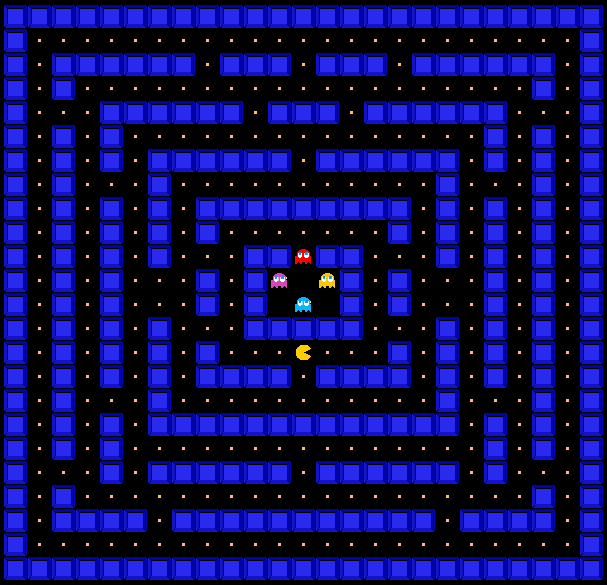
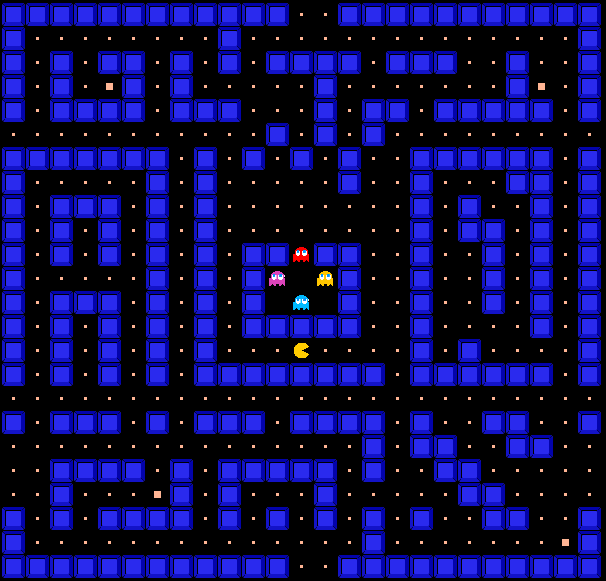
Change map order

diff --git a/src/level.py b/src/level.py
@@ -38,30 +38,84 @@ class Level:
             ],
             [
                 [1,1,1,1,1,1,1,1,1,1,1,1,1,1,1,1,1,1,1,1,1,1,1,1,1,0],
-                [1,1,1,1,1,1,1,1,1,1,1,1,1,1,1,1,1,1,1,1,1,1,1,1,1,0],
-                [1,1,1,1,1,1,1,1,1,1,1,1,1,1,1,1,1,1,1,1,1,1,1,1,1,0],
-                [1,1,1,1,1,1,1,1,1,1,1,1,1,1,1,1,1,1,1,1,1,1,1,1,1,0],
-                [1,1,1,1,1,1,1,1,1,1,1,1,1,1,1,1,1,1,1,1,1,1,1,1,1,0],
-                [1,1,1,1,1,1,1,1,1,1,1,1,1,1,1,1,1,1,1,1,1,1,1,1,1,0],
-                [1,1,1,1,1,1,1,1,1,1,1,1,1,1,1,1,1,1,1,1,1,1,1,1,1,0],
-                [1,1,1,1,1,1,1,1,1,1,1,1,1,1,1,1,1,1,1,1,1,1,1,1,1,0],
-                [1,1,1,1,1,1,1,1,1,1,1,1,1,1,1,1,1,1,1,1,1,1,1,1,1,0],
-                [1,1,1,1,1,1,1,1,1,1,1,1,1,1,1,1,1,1,1,1,1,1,1,1,1,0],
-                [1,1,1,1,1,1,1,0,0,0,1,1,2,1,1,0,0,0,1,1,1,1,1,1,1,0],
-                [1,1,1,1,1,1,1,0,0,0,1,2,2,2,1,0,0,0,1,1,1,1,1,1,1,0],
-                [1,1,1,1,1,1,1,0,0,0,1,2,2,2,1,0,0,0,1,1,1,1,1,1,1,0],
-                [1,1,1,1,1,1,1,0,0,0,1,1,1,1,1,0,0,0,1,1,1,1,1,1,1,0],
-                [1,1,1,1,1,1,1,0,0,0,0,0,2,0,0,0,0,0,1,1,1,1,1,1,1,0],
-                [1,1,1,1,1,1,1,1,1,1,1,1,1,1,1,1,1,1,1,1,1,1,1,1,1,0],
-                [1,1,1,1,1,1,1,1,1,1,1,1,1,1,1,1,1,1,1,1,1,1,1,1,1,0],
-                [1,1,1,1,1,1,1,1,1,1,1,1,1,1,1,1,1,1,1,1,1,1,1,1,1,0],
-                [1,1,1,1,1,1,1,1,1,1,1,1,1,1,1,1,1,1,1,1,1,1,1,1,1,0],
-                [1,1,1,1,1,1,1,1,1,1,1,1,1,1,1,1,1,1,1,1,1,1,1,1,1,0],
-                [1,1,1,1,1,1,1,1,1,1,1,1,1,1,1,1,1,1,1,1,1,1,1,1,1,0],
-                [1,1,1,1,1,1,1,1,1,1,1,1,1,1,1,1,1,1,1,1,1,1,1,1,1,0],
-                [1,1,1,1,1,1,1,1,1,1,1,1,1,1,1,1,1,1,1,1,1,1,1,1,1,0],
+                [1,3,0,0,0,0,0,0,0,0,0,0,0,0,0,0,0,0,0,0,0,0,0,0,1,0],
+                [1,0,1,1,1,1,1,1,0,1,1,1,0,1,1,1,0,1,1,1,1,1,1,0,1,0],
+                [1,0,1,0,0,0,0,0,0,0,0,0,0,0,0,0,0,0,0,0,0,0,1,0,1,0],
+                [1,0,0,0,1,1,1,1,1,1,0,1,1,1,0,1,1,1,1,1,1,0,0,0,1,0],
+                [1,0,1,0,1,0,0,0,0,0,0,0,0,0,0,0,0,0,0,0,1,0,1,0,1,0],
+                [1,0,1,0,1,0,1,1,1,1,1,1,0,1,1,1,1,1,1,0,1,0,1,0,1,0],
+                [1,0,1,0,0,0,1,0,0,0,0,0,0,0,0,0,0,0,1,0,0,0,1,0,1,0],
+                [1,0,1,0,1,0,1,0,1,1,1,1,1,1,1,1,1,0,1,0,1,0,1,0,1,0],
+                [1,0,1,0,1,0,1,0,1,0,0,0,0,0,0,0,1,0,1,0,1,0,1,0,1,0],
+                [1,0,1,0,1,0,1,0,0,0,1,1,2,1,1,0,0,0,1,0,1,0,1,0,1,0],
+                [1,0,1,0,1,0,0,0,1,0,1,2,2,2,1,0,1,0,0,0,1,0,1,0,1,0],
+                [1,0,1,0,1,0,0,0,1,0,1,2,2,2,1,0,1,0,0,0,1,0,1,0,1,0],
+                [1,0,1,0,1,0,1,0,0,0,1,1,1,1,1,0,0,0,1,0,1,0,1,0,1,0],
+                [1,0,1,0,1,0,1,0,1,0,0,0,2,0,0,0,1,0,1,0,1,0,1,0,1,0],
+                [1,0,1,0,1,0,1,0,1,1,1,1,0,1,1,1,1,0,1,0,1,0,1,0,1,0],
+                [1,0,1,0,0,0,1,0,0,0,0,0,0,0,0,0,0,0,1,0,0,0,1,0,1,0],
+                [1,0,1,0,1,0,1,1,1,1,1,1,1,1,1,1,1,1,1,0,1,0,1,0,1,0],
+                [1,0,1,0,1,0,0,0,0,0,0,0,0,0,0,0,0,0,0,0,1,0,1,0,1,0],
+                [1,0,0,0,1,0,1,1,1,1,1,1,0,1,1,1,1,1,1,0,1,0,0,0,1,0],
+                [1,0,1,0,0,0,0,0,0,0,0,0,0,0,0,0,0,0,0,0,0,0,1,0,1,0],
+                [1,0,1,1,1,1,0,1,1,1,1,1,1,1,1,1,1,1,0,1,1,1,1,0,1,0],
+                [1,0,0,0,0,0,0,0,0,0,0,0,0,0,0,0,0,0,0,0,0,0,0,3,1,0],
                 [1,1,1,1,1,1,1,1,1,1,1,1,1,1,1,1,1,1,1,1,1,1,1,1,1,0],
                 [0,0,0,0,0,0,0,0,0,0,0,0,0,0,0,0,0,0,0,0,0,0,0,0,0,0],
+            ],
+            [
+                [1,1,1,1,1,1,1,1,1,1,1,1,0,1,1,1,1,1,1,1,1,1,1,1,1,0],
+                [1,0,0,0,0,0,0,0,0,0,0,0,0,0,0,0,0,0,0,0,0,0,0,0,1,0],
+                [1,0,1,1,1,1,1,1,1,1,1,1,0,1,1,1,1,1,1,1,1,1,1,0,1,0],
+                [1,0,1,0,0,0,0,0,0,0,0,0,0,0,0,0,0,0,0,0,0,0,1,0,1,0],
+                [1,0,1,0,1,1,1,1,1,1,1,1,0,1,1,1,1,1,1,1,1,0,0,0,1,0],
+                [1,0,0,0,1,3,0,0,0,0,0,0,0,0,0,0,0,0,0,0,0,0,1,0,1,0],
+                [1,0,1,0,1,1,1,1,1,1,1,1,0,1,1,1,1,1,1,1,1,1,1,0,1,0],
+                [1,0,1,0,0,0,0,0,0,0,0,0,0,0,0,0,0,0,0,0,0,0,0,0,1,0],
+                [1,0,1,1,1,1,1,0,1,1,1,1,0,1,1,1,1,0,1,1,1,1,1,1,1,0],
+                [1,0,1,0,0,0,0,0,1,0,0,0,0,0,0,0,1,0,0,0,0,0,1,0,1,0],
+                [1,0,1,0,1,1,1,0,1,0,1,1,2,1,1,0,1,0,1,1,1,0,1,0,1,0],
+                [1,0,1,0,1,3,1,0,1,0,1,2,2,2,1,0,1,0,1,3,1,0,1,0,1,0],
+                [1,0,1,0,1,0,1,0,1,0,1,2,2,2,1,0,1,0,1,0,1,0,1,0,1,0],
+                [1,0,1,0,1,0,1,0,1,0,1,1,1,1,1,0,1,0,1,0,1,0,1,0,1,0],
+                [1,0,1,0,1,0,1,0,1,0,0,0,2,0,0,0,1,0,1,0,1,0,1,0,1,0],
+                [0,0,0,0,0,0,0,0,0,0,0,1,0,1,0,0,0,0,0,0,0,0,0,0,0,0],
+                [1,0,1,0,1,0,1,0,1,0,1,1,0,1,1,0,1,0,0,0,0,0,1,0,1,0],
+                [1,0,1,0,1,0,1,0,1,0,1,0,0,0,1,0,1,0,1,0,1,0,1,0,1,0],
+                [1,0,1,0,1,0,1,0,1,0,1,0,1,0,1,0,1,0,1,0,1,0,1,0,1,0],
+                [1,0,1,0,1,0,1,0,1,0,1,0,1,0,1,0,1,0,1,0,1,0,1,0,1,0],
+                [1,0,1,0,0,0,1,0,1,0,1,0,0,0,1,0,1,0,1,0,0,0,1,0,1,0],
+                [1,0,1,1,0,1,1,0,1,0,1,1,0,1,1,0,1,0,1,1,0,1,1,0,1,0],
+                [1,0,0,0,0,0,0,0,1,0,0,0,0,0,0,0,1,0,0,0,0,0,0,0,1,0],
+                [1,1,1,1,1,1,1,1,1,1,1,1,0,1,1,1,1,1,1,1,1,1,1,1,1,0],
+                [0,0,0,0,0,0,0,0,0,0,0,0,0,0,0,0,0,0,0,0,0,0,0,0,0,0],
+            ],
+            [
+                [1,1,1,1,1,1,1,1,1,1,1,1,0,0,1,1,1,1,1,1,1,1,1,1,1,0],
+                [1,0,0,0,0,0,0,0,0,1,0,0,0,0,0,0,0,0,0,0,0,0,0,0,1,0],
+                [1,0,1,0,1,1,0,1,0,1,0,1,1,1,1,0,1,1,1,0,0,1,0,0,1,0],
+                [1,0,1,0,3,1,0,1,0,0,0,0,0,1,0,0,0,0,0,0,0,1,3,0,1,0],
+                [1,0,1,1,1,1,0,1,1,1,0,0,0,1,0,1,1,0,1,1,1,1,1,0,1,0],
+                [0,0,0,0,0,0,0,0,0,0,0,1,0,1,0,1,0,0,0,0,0,0,0,0,0,0],
+                [1,1,1,1,1,1,1,0,1,0,1,0,1,0,1,0,0,1,1,1,1,1,1,0,1,0],
+                [1,0,0,0,0,0,1,0,1,0,0,0,0,0,1,0,0,1,0,0,0,1,1,0,1,0],
+                [1,0,1,1,1,0,1,0,1,0,0,0,0,0,0,0,0,1,0,1,0,0,1,0,1,0],
+                [1,0,1,0,1,0,1,0,1,0,0,0,0,0,0,0,0,1,0,1,1,0,1,0,1,0],
+                [1,0,1,0,1,0,1,0,1,0,1,1,2,1,1,0,0,1,0,0,1,0,1,0,1,0],
+                [1,0,0,0,0,0,1,0,1,0,1,2,2,2,1,0,0,1,0,0,1,0,1,0,1,0],
+                [1,0,1,1,1,0,1,0,1,0,1,2,2,2,1,0,0,1,0,0,1,0,1,0,1,0],
+                [1,0,1,0,1,0,1,0,1,0,1,1,1,1,1,0,0,1,0,0,0,0,1,0,1,0],
+                [1,0,1,0,1,0,1,0,1,0,0,0,2,0,0,0,0,1,0,1,0,0,0,0,1,0],
+                [1,0,1,0,1,0,1,0,1,1,1,1,1,1,1,1,0,1,1,1,1,1,1,0,1,0],
+                [0,0,0,0,0,0,0,0,0,0,0,0,0,0,0,0,0,0,0,0,0,0,0,0,0,0],
+                [1,0,1,1,1,0,1,0,1,1,1,0,1,1,1,1,0,1,0,0,1,1,0,0,1,0],
+                [0,0,0,0,0,0,0,0,0,0,0,0,0,0,0,1,0,1,1,0,0,1,1,0,0,0],
+                [0,0,1,1,1,1,0,1,0,1,1,1,1,1,0,1,0,0,1,1,0,0,0,0,0,0],
+                [0,0,1,0,0,0,3,1,0,1,0,0,0,1,0,0,0,0,0,1,1,0,0,0,0,0],
+                [1,0,1,0,1,1,1,1,0,1,0,1,0,1,0,1,0,1,0,0,1,1,0,0,1,0],
+                [1,0,0,0,0,0,0,0,0,0,0,0,0,0,0,1,0,0,0,0,0,0,0,3,1,0],
+                [1,1,1,1,1,1,1,1,1,1,1,1,0,0,1,1,1,1,1,1,1,1,1,1,1,0],
+                [0,0,0,0,0,0,0,0,0,0,0,0,0,0,0,0,0,0,0,0,0,0,0,0,0,0]
             ],
             [
                 [1,1,1,1,1,1,1,1,1,1,1,1,1,1,1,1,1,1,1,1,1,1,1,1,1,0],
@@ -116,87 +170,6 @@ class Level:
                 [1,3,0,0,0,0,0,0,0,0,0,0,0,0,0,0,0,0,0,0,0,0,0,3,1,0],
                 [1,1,1,1,1,1,1,1,1,0,0,0,0,0,0,0,1,1,1,1,1,1,1,1,1,0],
                 [0,0,0,0,0,0,0,0,0,0,0,0,0,0,0,0,0,0,0,0,0,0,0,0,0,0]
-            ],
-            [
-                [1,1,1,1,1,1,1,1,1,1,1,1,1,1,1,1,1,1,1,1,1,1,1,1,1,0],
-                [1,3,0,0,0,0,0,0,0,0,0,0,0,0,0,0,0,0,0,0,0,0,0,0,1,0],
-                [1,0,1,1,1,1,1,1,0,1,1,1,0,1,1,1,0,1,1,1,1,1,1,0,1,0],
-                [1,0,1,0,0,0,0,0,0,0,0,0,0,0,0,0,0,0,0,0,0,0,1,0,1,0],
-                [1,0,0,0,1,1,1,1,1,1,0,1,1,1,0,1,1,1,1,1,1,0,0,0,1,0],
-                [1,0,1,0,1,0,0,0,0,0,0,0,0,0,0,0,0,0,0,0,1,0,1,0,1,0],
-                [1,0,1,0,1,0,1,1,1,1,1,1,0,1,1,1,1,1,1,0,1,0,1,0,1,0],
-                [1,0,1,0,0,0,1,0,0,0,0,0,0,0,0,0,0,0,1,0,0,0,1,0,1,0],
-                [1,0,1,0,1,0,1,0,1,1,1,1,1,1,1,1,1,0,1,0,1,0,1,0,1,0],
-                [1,0,1,0,1,0,1,0,1,0,0,0,0,0,0,0,1,0,1,0,1,0,1,0,1,0],
-                [1,0,1,0,1,0,1,0,0,0,1,1,2,1,1,0,0,0,1,0,1,0,1,0,1,0],
-                [1,0,1,0,1,0,0,0,1,0,1,2,2,2,1,0,1,0,0,0,1,0,1,0,1,0],
-                [1,0,1,0,1,0,0,0,1,0,1,2,2,2,1,0,1,0,0,0,1,0,1,0,1,0],
-                [1,0,1,0,1,0,1,0,0,0,1,1,1,1,1,0,0,0,1,0,1,0,1,0,1,0],
-                [1,0,1,0,1,0,1,0,1,0,0,0,2,0,0,0,1,0,1,0,1,0,1,0,1,0],
-                [1,0,1,0,1,0,1,0,1,1,1,1,0,1,1,1,1,0,1,0,1,0,1,0,1,0],
-                [1,0,1,0,0,0,1,0,0,0,0,0,0,0,0,0,0,0,1,0,0,0,1,0,1,0],
-                [1,0,1,0,1,0,1,1,1,1,1,1,1,1,1,1,1,1,1,0,1,0,1,0,1,0],
-                [1,0,1,0,1,0,0,0,0,0,0,0,0,0,0,0,0,0,0,0,1,0,1,0,1,0],
-                [1,0,0,0,1,0,1,1,1,1,1,1,0,1,1,1,1,1,1,0,1,0,0,0,1,0],
-                [1,0,1,0,0,0,0,0,0,0,0,0,0,0,0,0,0,0,0,0,0,0,1,0,1,0],
-                [1,0,1,1,1,1,0,1,1,1,1,1,1,1,1,1,1,1,0,1,1,1,1,0,1,0],
-                [1,0,0,0,0,0,0,0,0,0,0,0,0,0,0,0,0,0,0,0,0,0,0,3,1,0],
-                [1,1,1,1,1,1,1,1,1,1,1,1,1,1,1,1,1,1,1,1,1,1,1,1,1,0],
-                [0,0,0,0,0,0,0,0,0,0,0,0,0,0,0,0,0,0,0,0,0,0,0,0,0,0],
-            ],
-            [
-                [1,1,1,1,1,1,1,1,1,1,1,1,0,0,1,1,1,1,1,1,1,1,1,1,1,0],
-                [1,0,0,0,0,0,0,0,0,1,0,0,0,0,0,0,0,0,0,0,0,0,0,0,1,0],
-                [1,0,1,0,1,1,0,1,0,1,0,1,1,1,1,0,1,1,1,0,0,1,0,0,1,0],
-                [1,0,1,0,3,1,0,1,0,0,0,0,0,1,0,0,0,0,0,0,0,1,3,0,1,0],
-                [1,0,1,1,1,1,0,1,1,1,0,0,0,1,0,1,1,0,1,1,1,1,1,0,1,0],
-                [0,0,0,0,0,0,0,0,0,0,0,1,0,1,0,1,0,0,0,0,0,0,0,0,0,0],
-                [1,1,1,1,1,1,1,0,1,0,1,0,1,0,1,0,0,1,1,1,1,1,1,0,1,0],
-                [1,0,0,0,0,0,1,0,1,0,0,0,0,0,1,0,0,1,0,0,0,1,1,0,1,0],
-                [1,0,1,1,1,0,1,0,1,0,0,0,0,0,0,0,0,1,0,1,0,0,1,0,1,0],
-                [1,0,1,0,1,0,1,0,1,0,0,0,0,0,0,0,0,1,0,1,1,0,1,0,1,0],
-                [1,0,1,0,1,0,1,0,1,0,1,1,2,1,1,0,0,1,0,0,1,0,1,0,1,0],
-                [1,0,0,0,0,0,1,0,1,0,1,2,2,2,1,0,0,1,0,0,1,0,1,0,1,0],
-                [1,0,1,1,1,0,1,0,1,0,1,2,2,2,1,0,0,1,0,0,1,0,1,0,1,0],
-                [1,0,1,0,1,0,1,0,1,0,1,1,1,1,1,0,0,1,0,0,0,0,1,0,1,0],
-                [1,0,1,0,1,0,1,0,1,0,0,0,2,0,0,0,0,1,0,1,0,0,0,0,1,0],
-                [1,0,1,0,1,0,1,0,1,1,1,1,1,1,1,1,0,1,1,1,1,1,1,0,1,0],
-                [0,0,0,0,0,0,0,0,0,0,0,0,0,0,0,0,0,0,0,0,0,0,0,0,0,0],
-                [1,0,1,1,1,0,1,0,1,1,1,0,1,1,1,1,0,1,0,0,1,1,0,0,1,0],
-                [0,0,0,0,0,0,0,0,0,0,0,0,0,0,0,1,0,1,1,0,0,1,1,0,0,0],
-                [0,0,1,1,1,1,0,1,0,1,1,1,1,1,0,1,0,0,1,1,0,0,0,0,0,0],
-                [0,0,1,0,0,0,3,1,0,1,0,0,0,1,0,0,0,0,0,1,1,0,0,0,0,0],
-                [1,0,1,0,1,1,1,1,0,1,0,1,0,1,0,1,0,1,0,0,1,1,0,0,1,0],
-                [1,0,0,0,0,0,0,0,0,0,0,0,0,0,0,1,0,0,0,0,0,0,0,3,1,0],
-                [1,1,1,1,1,1,1,1,1,1,1,1,0,0,1,1,1,1,1,1,1,1,1,1,1,0],
-                [0,0,0,0,0,0,0,0,0,0,0,0,0,0,0,0,0,0,0,0,0,0,0,0,0,0]
-            ],
-            [
-                [1,1,1,1,1,1,1,1,1,1,1,1,0,1,1,1,1,1,1,1,1,1,1,1,1,0],
-                [1,0,0,0,0,0,0,0,0,0,0,0,0,0,0,0,0,0,0,0,0,0,0,0,1,0],
-                [1,0,1,1,1,1,1,1,1,1,1,1,0,1,1,1,1,1,1,1,1,1,1,0,1,0],
-                [1,0,1,0,0,0,0,0,0,0,0,0,0,0,0,0,0,0,0,0,0,0,1,0,1,0],
-                [1,0,1,0,1,1,1,1,1,1,1,1,0,1,1,1,1,1,1,1,1,0,0,0,1,0],
-                [1,0,0,0,1,3,0,0,0,0,0,0,0,0,0,0,0,0,0,0,0,0,1,0,1,0],
-                [1,0,1,0,1,1,1,1,1,1,1,1,0,1,1,1,1,1,1,1,1,1,1,0,1,0],
-                [1,0,1,0,0,0,0,0,0,0,0,0,0,0,0,0,0,0,0,0,0,0,0,0,1,0],
-                [1,0,1,1,1,1,1,0,1,1,1,1,0,1,1,1,1,0,1,1,1,1,1,1,1,0],
-                [1,0,1,0,0,0,0,0,1,0,0,0,0,0,0,0,1,0,0,0,0,0,1,0,1,0],
-                [1,0,1,0,1,1,1,0,1,0,1,1,2,1,1,0,1,0,1,1,1,0,1,0,1,0],
-                [1,0,1,0,1,3,1,0,1,0,1,2,2,2,1,0,1,0,1,3,1,0,1,0,1,0],
-                [1,0,1,0,1,0,1,0,1,0,1,2,2,2,1,0,1,0,1,0,1,0,1,0,1,0],
-                [1,0,1,0,1,0,1,0,1,0,1,1,1,1,1,0,1,0,1,0,1,0,1,0,1,0],
-                [1,0,1,0,1,0,1,0,1,0,0,0,2,0,0,0,1,0,1,0,1,0,1,0,1,0],
-                [0,0,0,0,0,0,0,0,0,0,0,1,0,1,0,0,0,0,0,0,0,0,0,0,0,0],
-                [1,0,1,0,1,0,1,0,1,0,1,1,0,1,1,0,1,0,0,0,0,0,1,0,1,0],
-                [1,0,1,0,1,0,1,0,1,0,1,0,0,0,1,0,1,0,1,0,1,0,1,0,1,0],
-                [1,0,1,0,1,0,1,0,1,0,1,0,1,0,1,0,1,0,1,0,1,0,1,0,1,0],
-                [1,0,1,0,1,0,1,0,1,0,1,0,1,0,1,0,1,0,1,0,1,0,1,0,1,0],
-                [1,0,1,0,0,0,1,0,1,0,1,0,0,0,1,0,1,0,1,0,0,0,1,0,1,0],
-                [1,0,1,1,0,1,1,0,1,0,1,1,0,1,1,0,1,0,1,1,0,1,1,0,1,0],
-                [1,0,0,0,0,0,0,0,1,0,0,0,0,0,0,0,1,0,0,0,0,0,0,0,1,0],
-                [1,1,1,1,1,1,1,1,1,1,1,1,0,1,1,1,1,1,1,1,1,1,1,1,1,0],
-                [0,0,0,0,0,0,0,0,0,0,0,0,0,0,0,0,0,0,0,0,0,0,0,0,0,0],
             ],
             [
                 [1,1,1,1,1,1,1,1,1,1,1,1,0,1,1,1,1,1,1,1,1,1,1,1,1,0],

diff --git a/src/main.py b/src/main.py
@@ -171,6 +171,8 @@ def end_lvl(is_win):
             if event.type == pygame.KEYDOWN:
                 if event.key == ord('q') or event.key == pygame.K_SPACE or event.key == pygame.K_RETURN or event.key == pygame.K_KP_ENTER or event.key == ord('p'):
                     run = False
+            if event.type == pygame.MOUSEBUTTONDOWN:
+                run = False
 
 def menu_loop():
     global loudness
